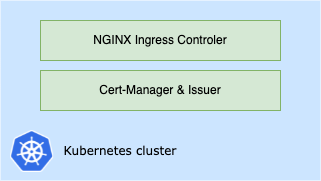
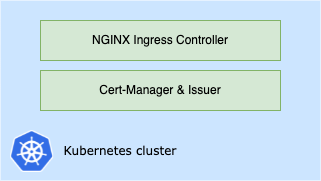
correction of a typo

Changed region(s): [[0.2804, 0.1934, 0.7165, 0.2762]]

diff --git a/README.md b/README.md
@@ -44,13 +44,13 @@ Let's have a look at the detailled process when we access a secured application:
 <img src="docs/images/sso-process-overview.png" width="500px" />
 
 1. Customer requests the demo app
-2. Ingress controler redirect to OAuth2 Proxy according annotations in the demo app ingress
+2. Ingress controller redirect to OAuth2 Proxy according annotations in the demo app ingress
 3. OAuth2 Proxy checks with Keycloak if the user is authenticated
 4. The user is not identified, Keycloak presents the login page
 5. The user fills in his credentials for authentcation
 6. Keycloak passes identification datas to OAuth2 Proxy
-7. OAuth2 Proxy informs Ingress Controler that the user is identified and is authorized to access the application
-8. Ingress controler routes the request to the demo app
+7. OAuth2 Proxy informs Ingress Controller that the user is identified and is authorized to access the application
+8. Ingress controller routes the request to the demo app
 
 ## Few tests
 
